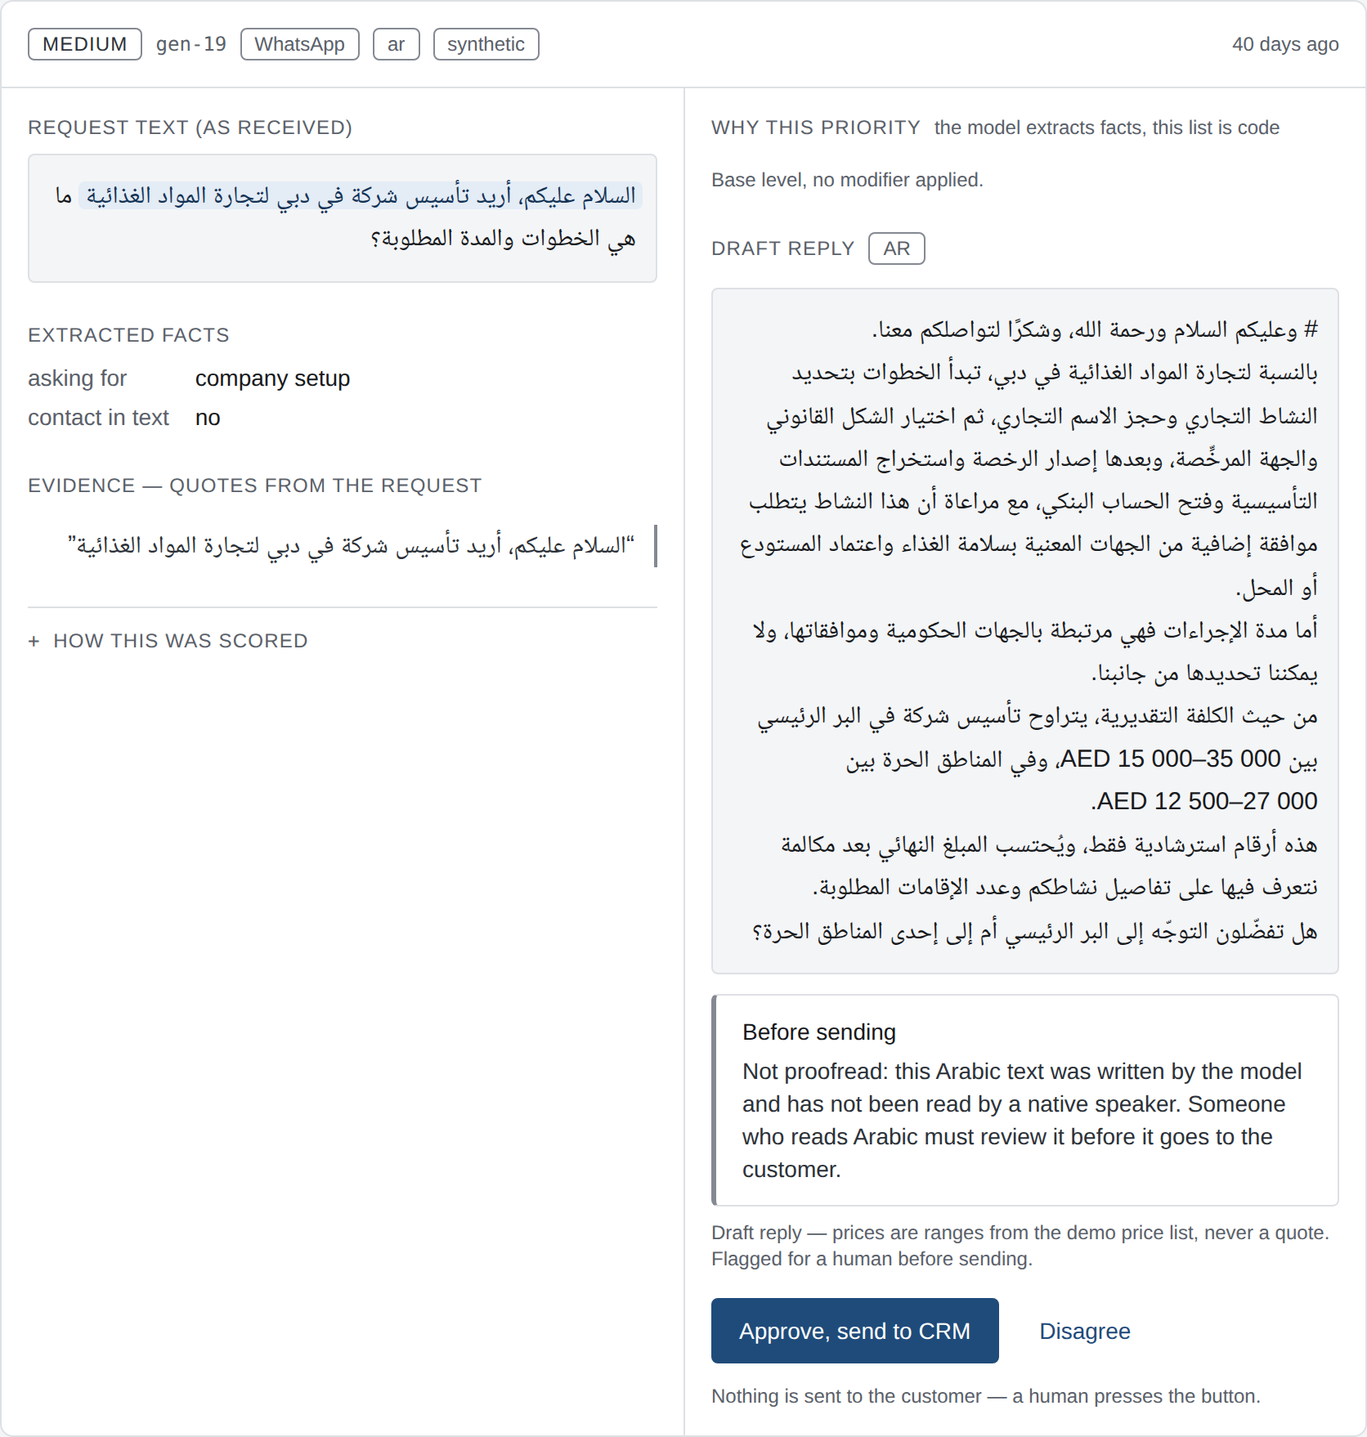
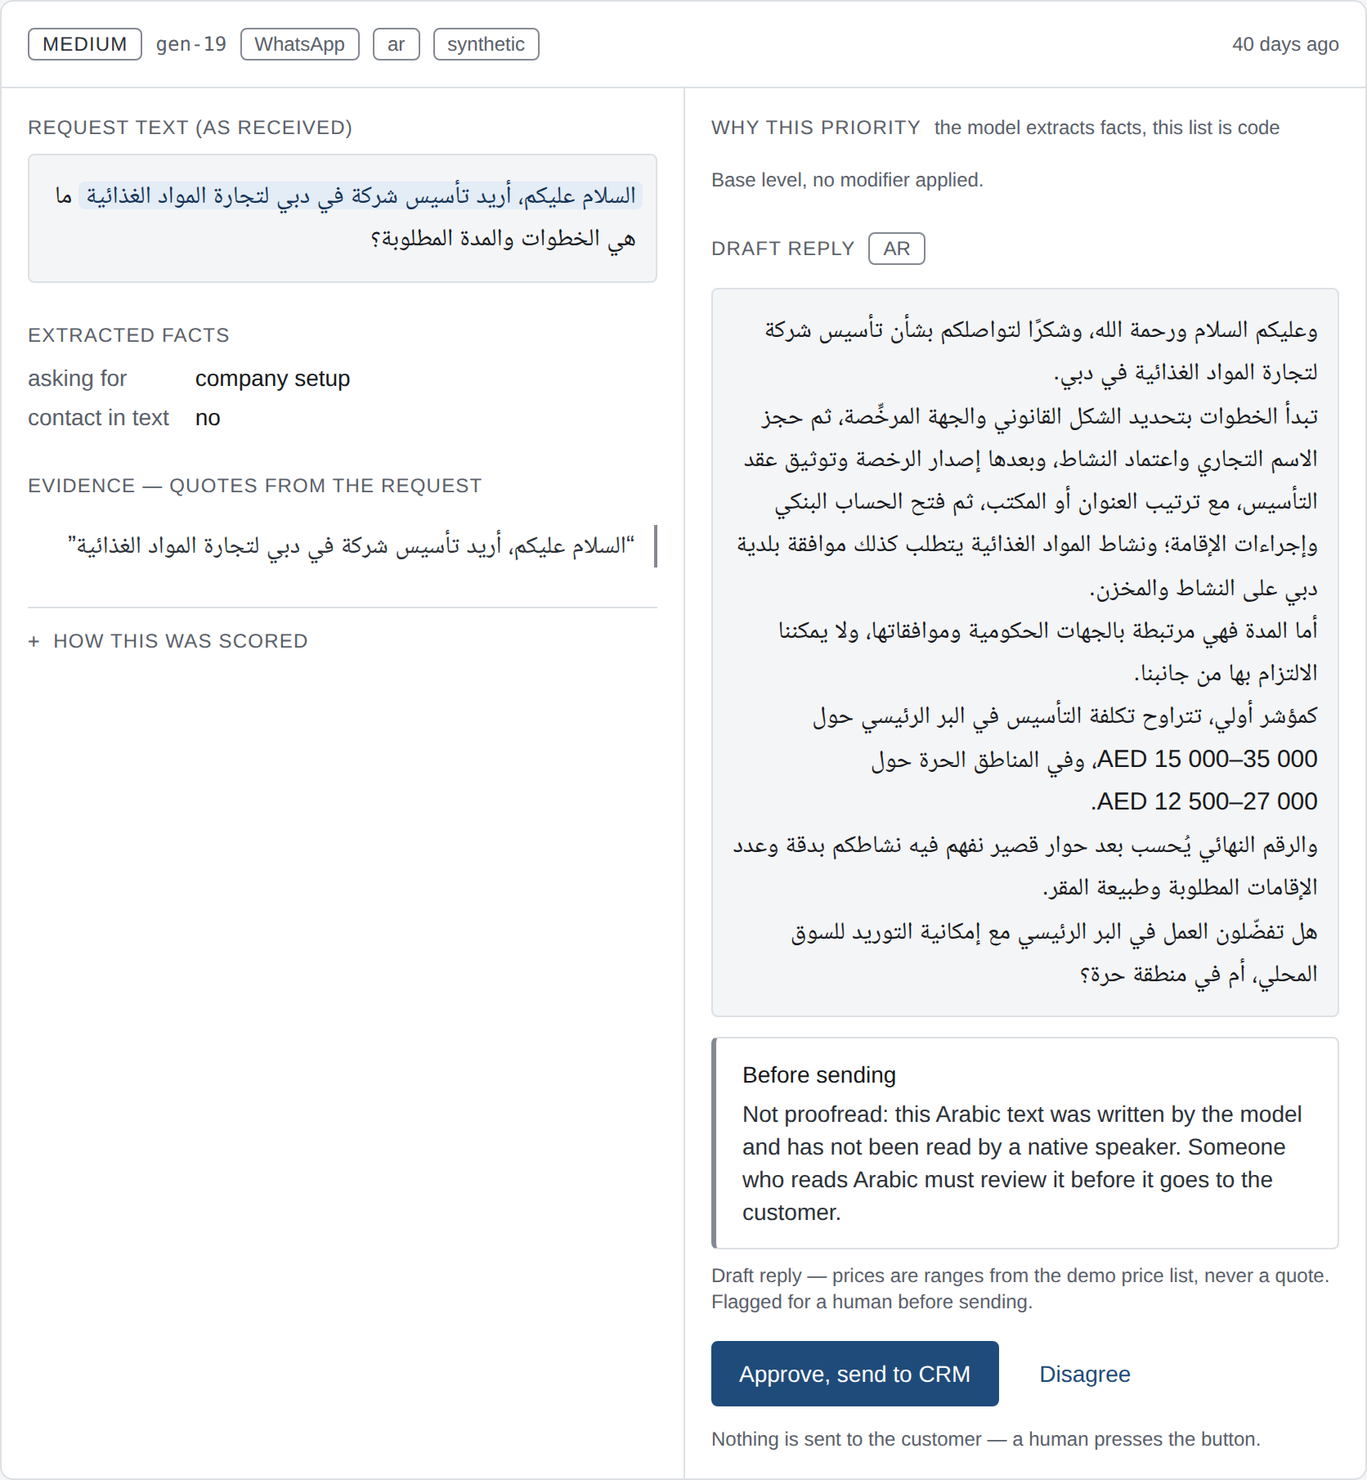
fix(reply,lint): служебная разметка модели не доезжает до письма клиенту
Арабский черновик gen-19 начинался строкой «# وعليكم السلام»: модель дописала
markdown-заголовок, чистка входа его не снимала, линтер такую проверку не делал вовсе.
Решётка доехала до карточки и попала на скриншот, который лежит в репозитории.

Две правки, а не одна: чистка снимает заголовки, цитаты и обёртки из звёздочек у своей
модели, а линтер сторожит текст любого происхождения — это гейт, а не обещание. Пробел
после маркера обязателен: «#hashtag» — слово, а не заголовок.

Заодно закрыт латентный разрыв денежной вставки: после тире между границами диапазона
браузер имел право перенести строку, и в узкой колонке «AED 15 000–» оставалось наверху,
а «35 000» уезжало вниз. Тире обёрнуто склейками слов; точек разрыва во вставке больше нет
ни одной.

Мутации: чистка заголовков снята → 5 failed; чистка слабее (пробел не требуется) →
1 failed; проверка разметки в линтере снята → 4 failed; склейки вокруг тире убраны →
1 failed. Все — в обе стороны, с положительным контролем «чистое письмо проходит».

make test-ci → 692 passed (+19); make lint → All checks passed; make demo → 32 из 32;
make check-web → сверка 144 из 144, подложек 4 из 4; стенд → ГОДНО. Демо-данные
пересобраны, кадры пересняты и осмотрены: решётки на карточке нет, диапазоны целы.

Claude-Session: https://claude.ai/code/session_014odsbH1wHmd67rLteETy5W

diff --git a/web/lib/mockReply.ts b/web/lib/mockReply.ts
@@ -113,8 +113,13 @@ function amount(value: number): string {
 const LRI = "\u2066";
 const PDI = "\u2069";
 
+// Склейка слов вокруг тире диапазона (reply.price_fragment): после тире браузер тоже
+// имеет право перенести строку, и в узкой колонке «AED 15 000–» оставалось наверху,
+// а «35 000» уезжало вниз. Диапазон, разорванный пополам, читается как одна цена.
+const WORD_JOINER = "\u2060";
+
 function priceFragment(item: PriceItem): string {
-  return `${LRI}AED${NBSP}${amount(item.min)}–${amount(item.max)}${PDI}`;
+  return `${LRI}AED${NBSP}${amount(item.min)}${WORD_JOINER}–${WORD_JOINER}${amount(item.max)}${PDI}`;
 }
 
 function priceLine(key: string, language: "ru" | "en"): string {

diff --git a/tests/test_reply_body.py b/tests/test_reply_body.py
@@ -1,0 +1,107 @@
+"""Тесты тела черновика: разметка и неразрывность денежной вставки.
+
+Правило, ради которого файл заведён: арабский черновик `gen-19` начинался строкой
+«# وعليكم السلام» — модель дописала markdown-заголовок, чистка его не снимала, линтер
+не проверял, и решётка доехала до карточки и до скриншота в репозитории.
+
+Ожидаемое — литералы: маркеры разметки выписаны строками, коды невидимых символов —
+шестнадцатеричными значениями. Из `reply` и `lint` не импортируется ни один список
+маркеров: сузят его — тест покраснеет, а не поедет следом.
+"""
+from __future__ import annotations
+
+import pytest
+
+from leadcentre.engine.lint import lint
+from leadcentre.engine.reply import Reply, load_prices, price_fragment, strip_markup
+
+# Коды невидимых символов выписаны escape-последовательностями: так их видно в диффе
+# и не путает ни редактор, ни линтер.
+WORD_JOINER = "\u2060"   # WORD JOINER
+NBSP = "\u00a0"         # NO-BREAK SPACE
+RLM = "\u200f"          # RIGHT-TO-LEFT MARK
+
+
+def _reply(body: str, language: str = "ru") -> Reply:
+    return Reply(body=body, language=language, used_prices=(), needs_human=False,
+                 outcome="draft")
+
+
+# --- чистка на входе: смысл остаётся, обёртка уходит ---------------------------------
+
+
+@pytest.mark.parametrize(
+    ("line", "expected"),
+    [
+        ("# وعليكم السلام", "وعليكم السلام"),   # тот самый живой дефект
+        ("## Здравствуйте", "Здравствуйте"),
+        ("###### шесть решёток", "шесть решёток"),
+        ("> цитата", "цитата"),
+        (">> двойная цитата", "двойная цитата"),
+        ("**жирная строка**", "жирная строка"),
+        ("_курсив_", "курсив"),
+        # Негативный контроль: то, что разметкой не является, обязано уцелеть.
+        ("#hashtag без пробела", "#hashtag без пробела"),
+        ("обычная строка", "обычная строка"),
+        ("Ориентир по рынку: AED 15 000–35 000 в год.", "Ориентир по рынку: AED 15 000–35 000 в год."),
+        ("цена 5*7 метров", "цена 5*7 метров"),
+    ],
+)
+def test_markup_is_stripped_but_text_survives(line, expected):
+    assert strip_markup(line) == expected
+
+
+# --- гейт: линтер ловит разметку любого происхождения --------------------------------
+
+
+@pytest.mark.parametrize(
+    "body",
+    [
+        f"{RLM}# وعليكم السلام\n{RLM}вторая строка",
+        "Здравствуйте!\n> Мы посчитаем после звонка.",
+        "Здравствуйте!\nЦена **AED 15 000** в год.",
+        "Здравствуйте!\nСмотрите `pricelist.yaml`.",
+    ],
+)
+def test_linter_reports_markup_in_the_body(body):
+    """Разметка — нарушение, а не «почти нормально»."""
+    result = lint(_reply(body))
+    assert result.violations, result.summary()
+    assert any("разметки" in v for v in result.violations), result.violations
+
+
+def test_linter_lets_a_clean_letter_through():
+    """Негативный контроль: без него проверка зеленела бы и на приборе, всегда кричащем «нет»."""
+    body = "Здравствуйте!\nПо офису: у нас собственный бизнес-центр в Дубае."
+    result = lint(_reply(body))
+    assert not any("разметки" in v for v in result.violations), result.violations
+
+
+def test_markup_check_is_counted_among_the_checks_done():
+    """«Нарушений 0» значит что-то только рядом с «проверено N»."""
+    result = lint(_reply("Здравствуйте!\nПо офису: есть мини-офисы."))
+    assert "проверено 7" in result.summary(), result.summary()
+
+
+# --- денежная вставка не рвётся переносом строки -------------------------------------
+
+
+def test_price_fragment_has_no_break_opportunity():
+    """Диапазон, разорванный пополам, читается как одна цена.
+
+    Проверяются все три места, где браузер имел право перенести: после «AED», внутри
+    разрядов и после тире между границами.
+    """
+    fragment = price_fragment(load_prices()["office_mini_year"])
+    assert " " not in fragment, f"обычный пробел — точка разрыва: {fragment!r}"
+    assert NBSP in fragment, "неразрывный пробел исчез"
+    assert f"{WORD_JOINER}–{WORD_JOINER}" in fragment, (
+        f"тире диапазона без склеек слов: {fragment!r}"
+    )
+
+
+def test_price_fragment_still_reads_as_a_range():
+    """Негативный контроль: склейки невидимы, но текст обязан остаться читаемым."""
+    item = load_prices()["office_mini_year"]
+    visible = "".join(ch for ch in price_fragment(item) if ch not in "\u2060\u2066\u2069")
+    assert visible == f"AED{NBSP}35{NBSP}000–60{NBSP}000", visible

diff --git a/leadcentre/engine/reply.py b/leadcentre/engine/reply.py
@@ -451,8 +451,13 @@ def price_fragment(item: PriceItem) -> str:
     разрывал вставку, и валюта оставалась в конце одной строки, а сумма уезжала в начало
     следующей (замечено осмотром скриншота 02d). Разряды внутри числа неразрывны по той же
     причине — иначе «35 000» разъезжается на две строки.
+
+    Тире между границами диапазона обёрнуто склейками слов (U+2060): после тире браузер
+    тоже имеет право перенести строку, и в узкой колонке «AED 15 000–» оставалось наверху,
+    а «35 000» уезжало вниз. Диапазон, разорванный пополам, читается как одна цена.
     """
-    return ltr_run(f"AED\u00a0{format_amount(item.min)}–{format_amount(item.max)}")
+    low, high = format_amount(item.min), format_amount(item.max)
+    return ltr_run(f"AED\u00a0{low}\u2060–\u2060{high}")
 
 
 def price_line(item: PriceItem, language: str) -> str:
@@ -679,9 +684,25 @@ def call_claude_arabic(prompt: str) -> tuple[str, dict[str, int]]:
     return text, usage
 
 
+#: Разметка, которую модель дописывает по привычке к markdown. В письме клиенту её быть
+#: не может: заголовков и цитат в деловом письме нет, а звёздочки клиент видит как мусор.
+#: Живой дефект: арабский черновик gen-19 начинался с «# وعليكم السلام» — решётка доехала
+#: до карточки и попала на скриншот, а линтер её не проверял.
+# Пробел после маркера обязателен: «#hashtag» — слово, а не заголовок.
+MARKUP_PREFIX_RE = re.compile(r"^(?:#{1,6}|>+)(?:\s+|$)")
+MARKUP_WRAP_RE = re.compile(r"^(\*{1,3}|_{1,3})(.+?)\1$")
+
+
+def strip_markup(line: str) -> str:
+    """Строка письма без markdown-разметки. Смысл не трогаем, снимаем только обёртку."""
+    cleaned = MARKUP_PREFIX_RE.sub("", line.strip())
+    wrapped = MARKUP_WRAP_RE.match(cleaned)
+    return wrapped.group(2).strip() if wrapped else cleaned
+
+
 def _clean_model_lines(text: str, language: str) -> str:
     """Обрезка того, что модель могла добавить сверх договора, и разметка направления."""
-    lines = [line.strip() for line in text.splitlines() if line.strip()]
+    lines = [stripped for line in text.splitlines() if (stripped := strip_markup(line))]
     if language in RTL_LANGUAGES:
         lines = [line if line.startswith(RLM) else RLM + line for line in lines]
     return "\n".join(lines)

diff --git a/leadcentre/engine/lint.py b/leadcentre/engine/lint.py
@@ -141,6 +141,7 @@ CHECK_DEADLINE = "обещания сроков"
 CHECK_PRICES = "числа AED в диапазоне прайса"
 CHECK_MONEY_VERBATIM = "денежная вставка не переписана"
 CHECK_ASCII_DIGITS = "цифры в сумме европейские"
+CHECK_NO_MARKUP = "в письме нет разметки"
 
 # Арабо-индийские и персидские цифры. В арабском абзаце диапазон «35 000–60 000 درهم»,
 # набранный ими без латинского якоря, показывается читателю как «60 000–35 000»: клиент
@@ -274,6 +275,23 @@ def _check_ascii_digits(body: str, violations: list[str]) -> None:
         )
 
 
+#: Разметка markdown в письме клиенту. Заголовок и цитата в деловом письме не нужны,
+#: а звёздочки клиент видит как мусор. Ловится здесь, а не только чисткой на входе:
+#: чистка снимает разметку у своей модели, а линтер сторожит текст любого происхождения.
+MARKUP_LINE_RE = re.compile(r"^[\u200f\u200e\s]*(?:#{1,6}|>+)(?:\s+|$)", re.MULTILINE)
+MARKUP_INLINE_RE = re.compile(r"(?<!\*)\*{2,3}[^*\n]+\*{2,3}(?!\*)|`{1,3}[^`\n]+`{1,3}")
+
+
+def _check_markup(body: str, violations: list[str]) -> None:
+    """Разметки в письме быть не должно ни в начале строки, ни внутри неё."""
+    line = MARKUP_LINE_RE.search(body)
+    if line:
+        violations.append(f"{CHECK_NO_MARKUP}: строка начинается с «{line.group(0).strip()}»")
+    inline = MARKUP_INLINE_RE.search(body)
+    if inline:
+        violations.append(f"{CHECK_NO_MARKUP}: внутри строки «{inline.group(0)[:40]}»")
+
+
 def lint(
     reply: Reply,
     prices: dict[str, PriceItem] | None = None,
@@ -299,6 +317,8 @@ def lint(
     done.append(CHECK_SLOP)
     _check_deadlines(reply.body, violations)
     done.append(CHECK_DEADLINE)
+    _check_markup(reply.body, violations)
+    done.append(CHECK_NO_MARKUP)
 
     amounts: tuple[float, ...] = ()
     if prices is None:

diff --git a/docs/loom_script.md b/docs/loom_script.md
@@ -96,7 +96,7 @@ python eval/run_eval.py --labels eval/labels_synthetic.csv
 ```
 
 **Говорить:**
-«Под этим есть измерения, а не ощущения. 673 теста, сеть в них запрещена машиной, а не
+«Под этим есть измерения, а не ощущения. 692 теста, сеть в них запрещена машиной, а не
 договорённостью. Вторая команда прогоняет обещание из первого абзаца README целиком —
 четыре обращения проходят весь путь, около трёх десятков проверок, и у каждой три исхода,
 а не два. Число проверок называйте с экрана: у арабского черновика есть третий исход,

diff --git a/README.md b/README.md
@@ -153,7 +153,7 @@ Every number below came out of this repository. The command that produced it is 
 
 | Measurement | Value | Where from |
 |---|---|---|
-| Tests | 673 passed, 0 failed, 0 skipped | `make test-ci` — network is blocked by the machine, not by convention; the ban itself is checked by `make test-ci-selfcheck` |
+| Tests | 692 passed, 0 failed, 0 skipped | `make test-ci` — network is blocked by the machine, not by convention; the ban itself is checked by `make test-ci-selfcheck` |
 | Agreement with the author's labels, Cohen's kappa | 0.838 (po 0.900, pe 0.382, 30 pairs, 27 matched) | `python eval/run_eval.py --labels eval/labels_synthetic.csv` |
 | Stability, 3 runs of the same input | 1.0000 on 70 requests | same run |
 | Negative controls | 6 of 6 | same run |
